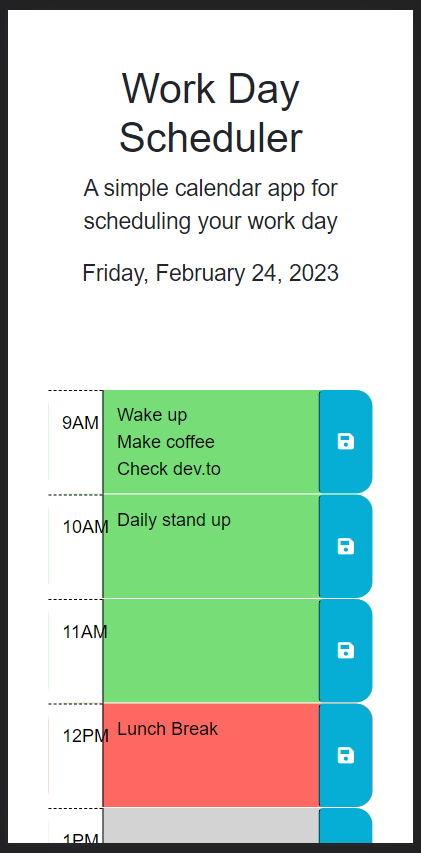
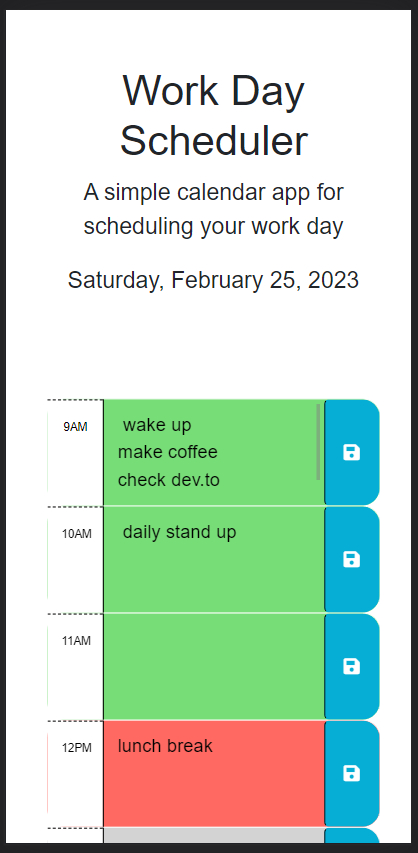
replaced screenshot, corrected sizing issue for mobile

diff --git a/assets/css/style.css b/assets/css/style.css
@@ -61,3 +61,9 @@ textarea {
   font-size: 20px;
   transition: all 0.3s ease-in-out;
 }
+
+@media (max-width: 690px) {
+  .hour {
+    font-size: 12px;
+  }
+}
